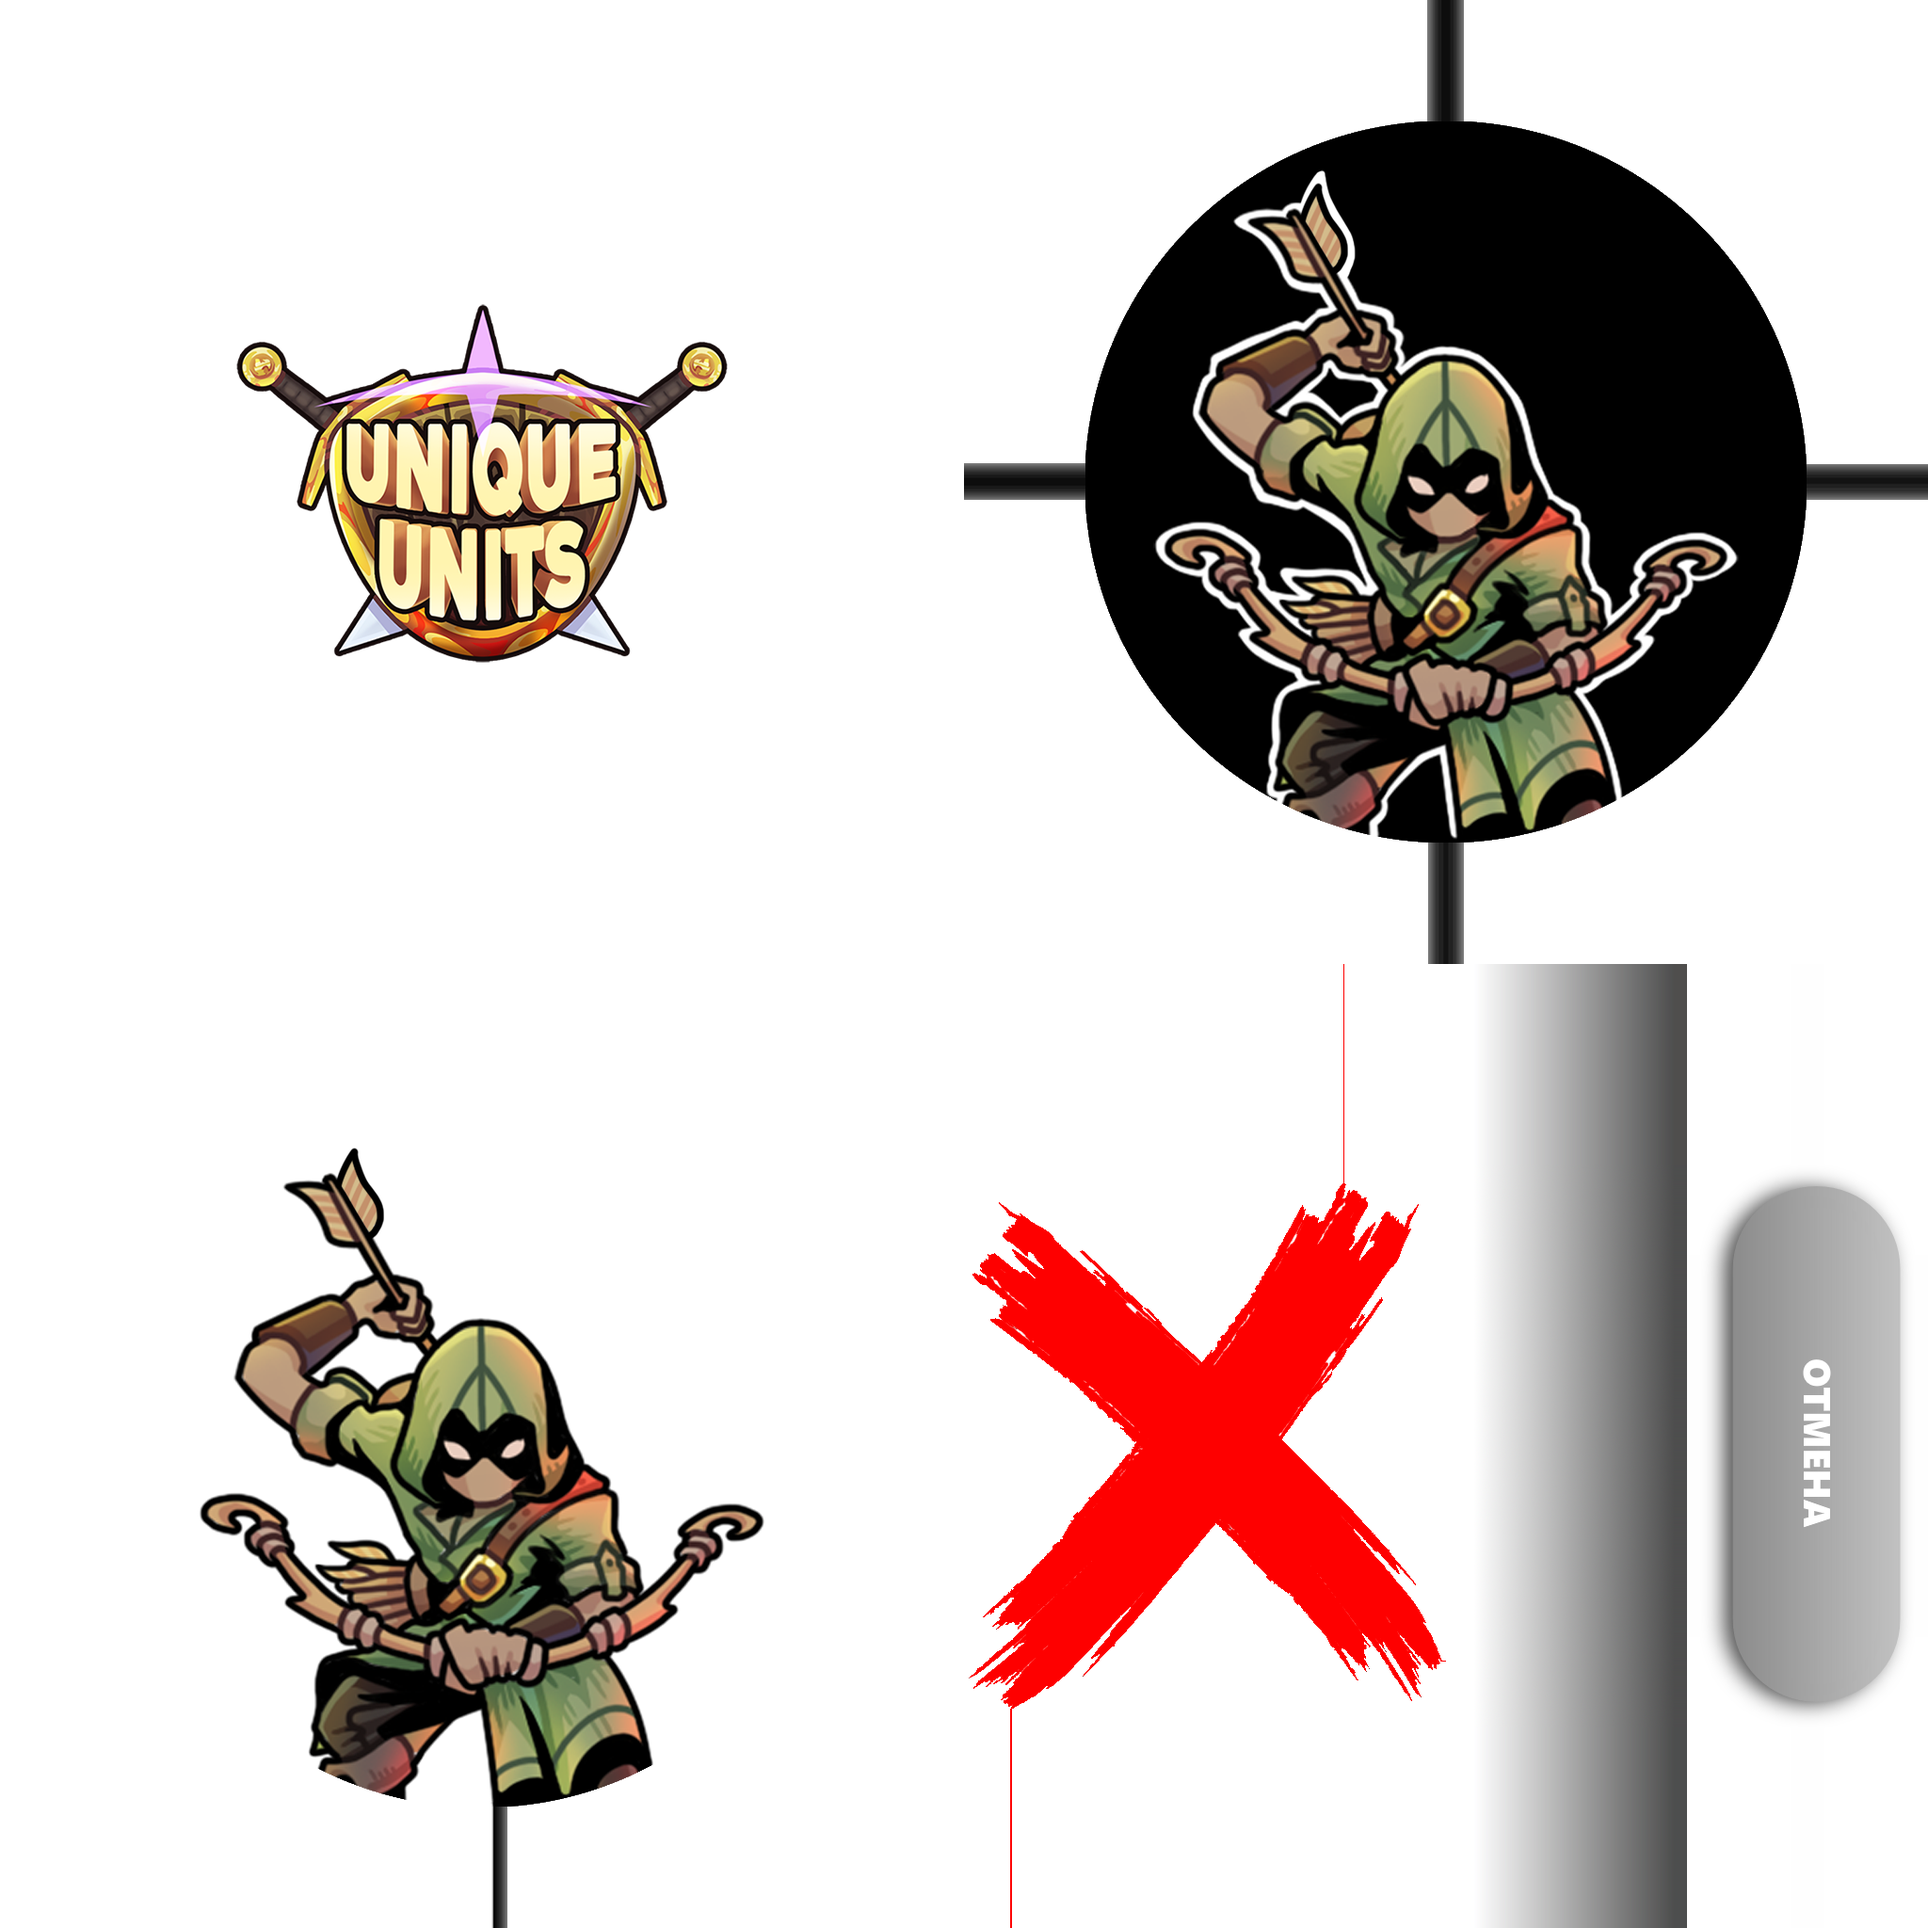
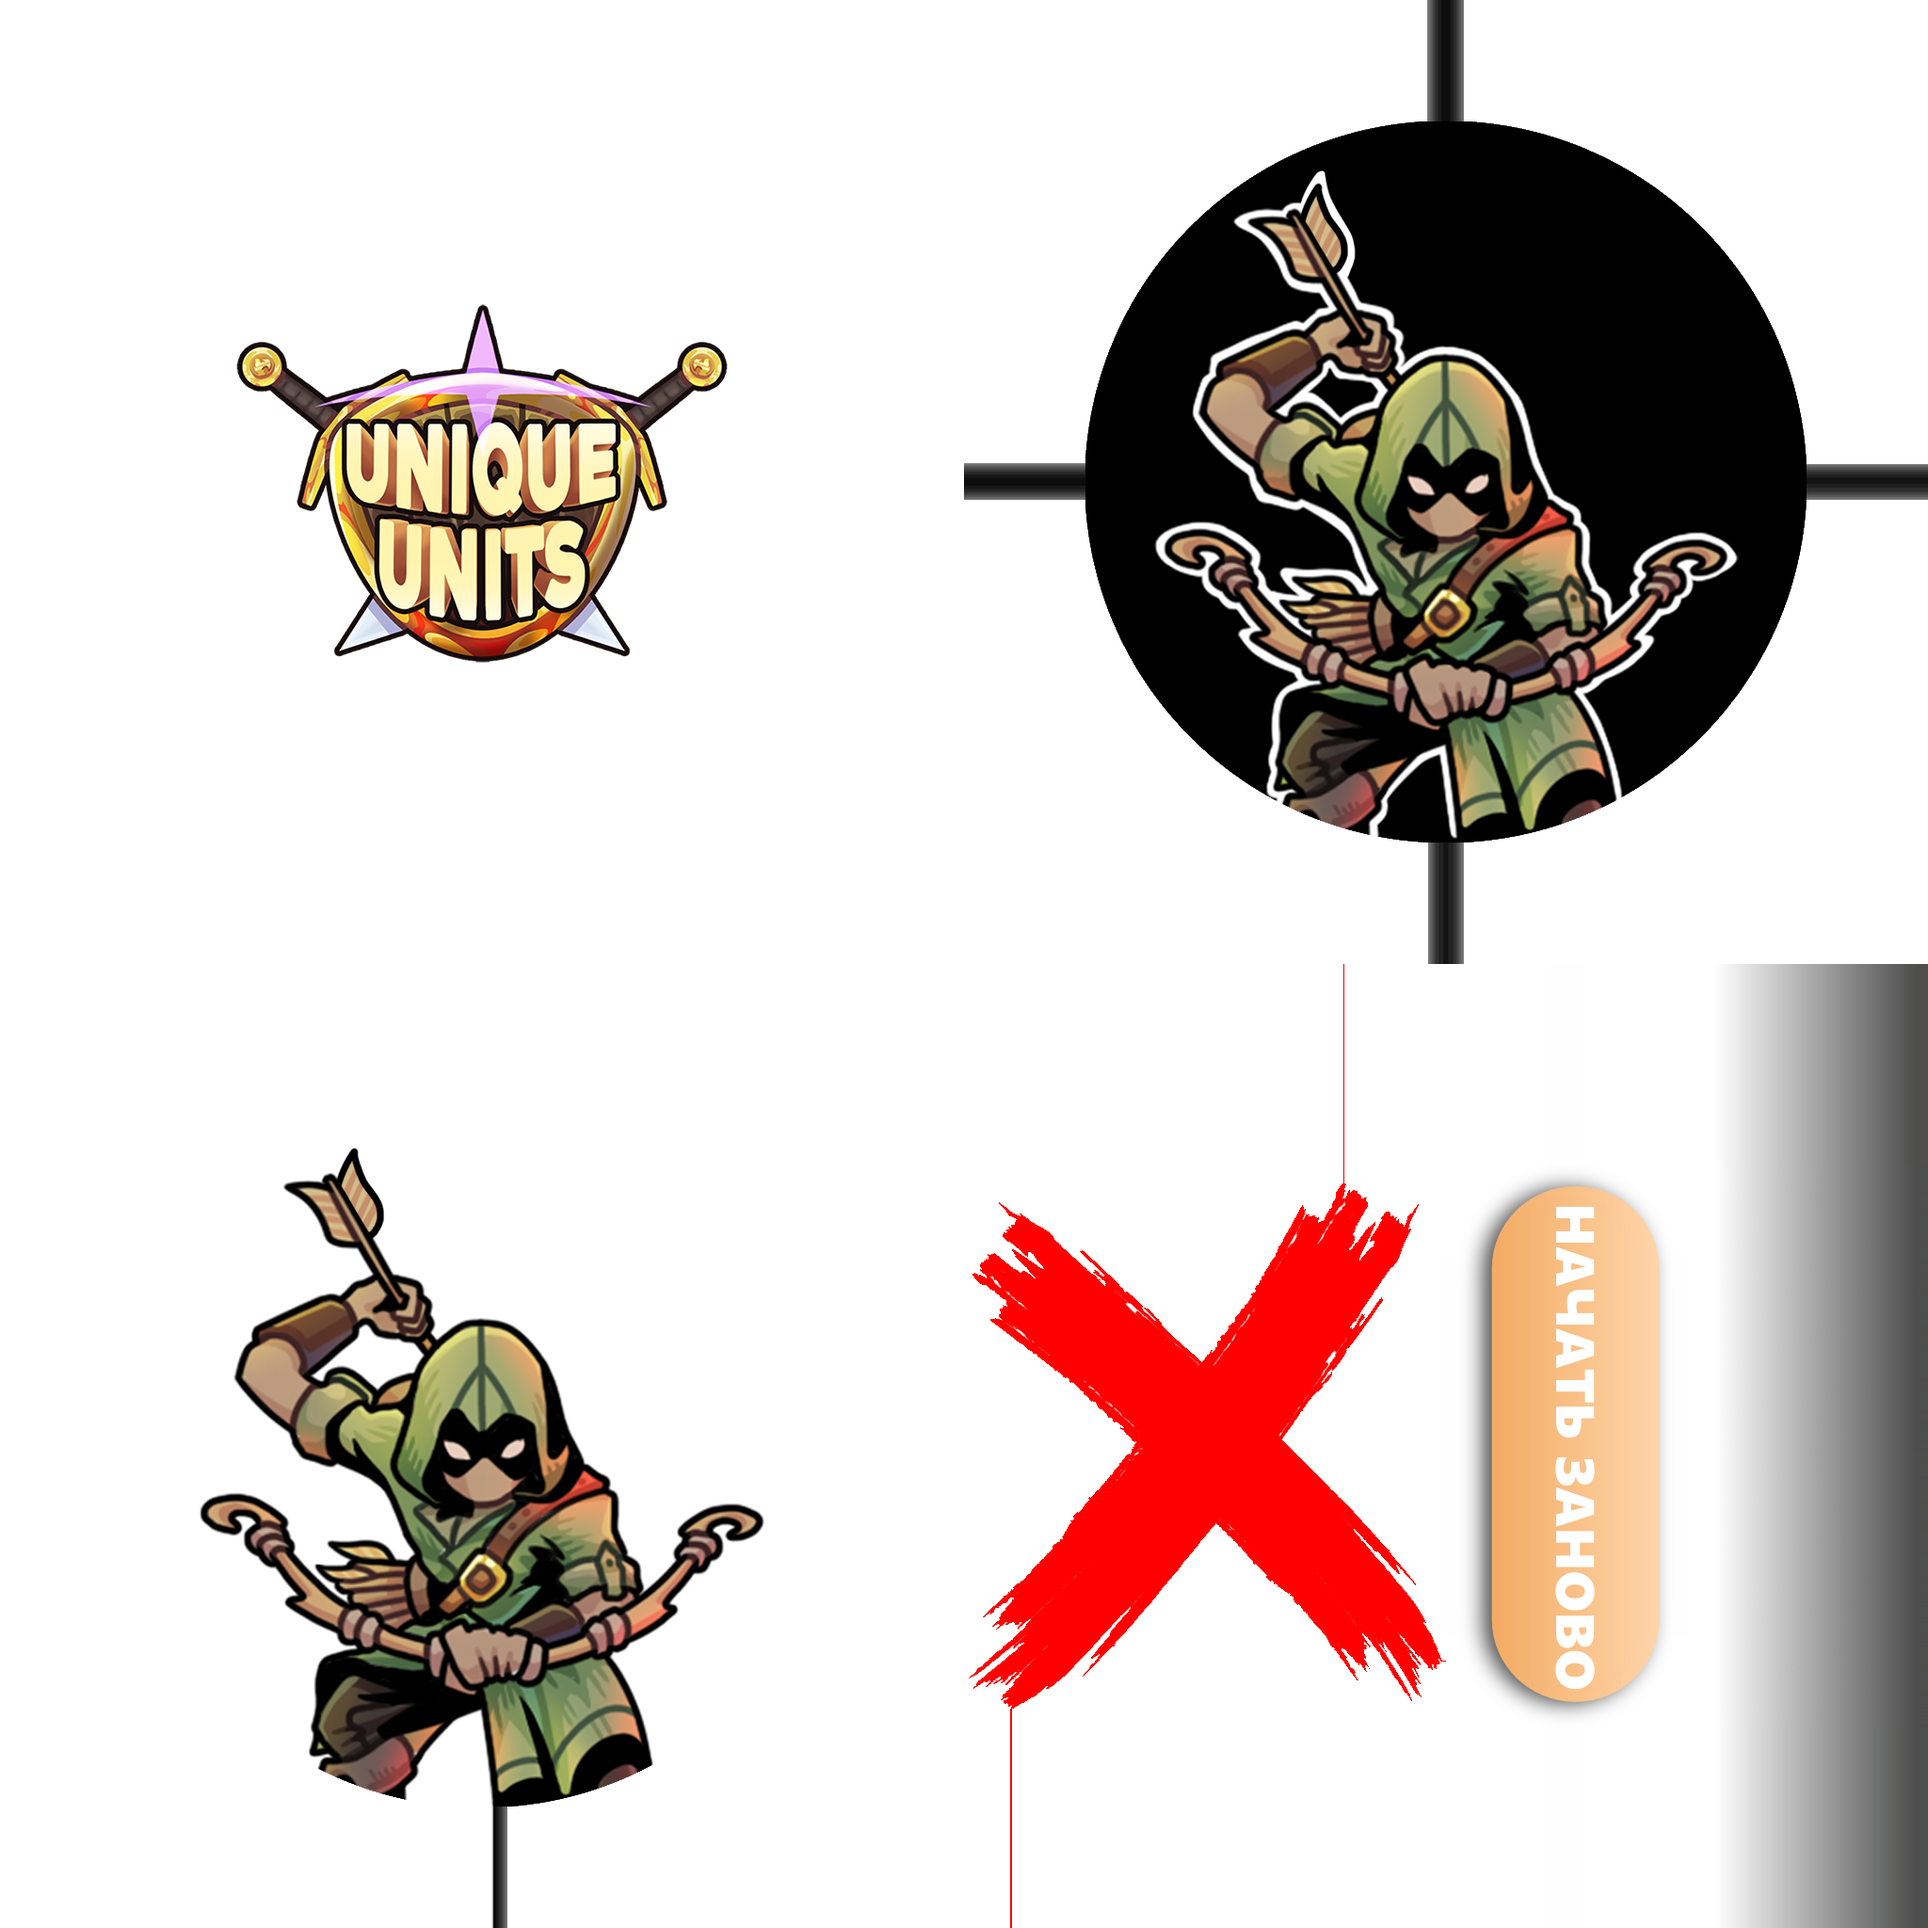
Add files via upload

Changed region(s): [[0.75, 0.5, 1.0, 1.0]]

diff --git a/scripts/c3runtime.js b/scripts/c3runtime.js
@@ -4482,14 +4482,16 @@ self.C3_GetObjectRefTable = function () {
 		C3.Plugins.System.Acts.WaitForPreviousActions,
 		C3.Plugins.Arr.Acts.JSONLoad,
 		C3.Plugins.AJAX.Exps.LastData,
+		C3.Plugins.Arr.Acts.Shuffle,
 		C3.Plugins.Touch.Cnds.OnTapGestureObject,
 		C3.Plugins.Sprite.Cnds.IsVisible,
 		C3.Plugins.Sprite.Cnds.CompareFrame,
 		C3.Plugins.System.Cnds.CompareBoolVar,
 		C3.Plugins.Sprite.Acts.SetVisible,
 		C3.Plugins.Sprite.Acts.SetAnimFrame,
-		C3.Plugins.System.Exps.choose,
+		C3.Plugins.Arr.Exps.At,
 		C3.Plugins.System.Acts.SubVar,
+		C3.Plugins.Arr.Acts.Pop,
 		C3.Plugins.Arr.Cnds.ArrForEach,
 		C3.Plugins.Arr.Cnds.CompareXY,
 		C3.Plugins.Arr.Exps.CurX,
@@ -4513,20 +4515,25 @@ self.C3_GetObjectRefTable = function () {
 		C3.Plugins.Sprite.Acts.SetPos,
 		C3.Plugins.System.Cnds.Else,
 		C3.Plugins.System.Cnds.TriggerOnce,
+		C3.Plugins.System.Acts.Wait,
 		C3.Plugins.Sprite.Cnds.CompareX,
 		C3.Plugins.Sprite.Cnds.CompareY,
+		C3.Plugins.System.Cnds.LayerVisible,
 		C3.Plugins.Sprite.Cnds.OnCollision,
 		C3.Plugins.Sprite.Exps.Width,
 		C3.Plugins.Sprite.Exps.Height,
 		C3.Plugins.Text.Acts.SetVisible,
 		C3.Plugins.Sprite.Acts.SetOpacity,
 		C3.Plugins.Touch.Cnds.OnTapGesture,
-		C3.Plugins.System.Acts.Wait,
 		C3.Plugins.System.Acts.SetBoolVar,
 		C3.Plugins.Arr.Acts.SetXY,
 		C3.Plugins.System.Cnds.Every,
 		C3.Plugins.Text.Acts.Destroy,
-		C3.Plugins.Arr.Exps.CurValue
+		C3.Plugins.Arr.Exps.CurValue,
+		C3.Plugins.Text.Acts.SetFontColor,
+		C3.Plugins.System.Acts.SetLayerVisible,
+		C3.Plugins.System.Acts.RestartLayout,
+		C3.Plugins.System.Acts.ResetGlobals
 	];
 };
 self.C3_JsPropNameTable = [
@@ -4573,6 +4580,11 @@ self.C3_JsPropNameTable = [
 	{o_sPlenPeer: 0},
 	{o_tCountMeshok: 0},
 	{o_tCountMeshokSecond: 0},
+	{o_ListFigurHost: 0},
+	{o_ListFigurPeer: 0},
+	{GameOver: 0},
+	{o_FakeBackgroundEndGame: 0},
+	{o_sButtonRestart: 0},
 	{ButtonWork: 0},
 	{FigurHost: 0},
 	{Map: 0},
@@ -4628,7 +4640,12 @@ self.InstanceType = {
 	s_zahvats_okrushen: class extends self.ISpriteInstance {},
 	o_sPlenPeer: class extends self.ISpriteInstance {},
 	o_tCountMeshok: class extends self.ITextInstance {},
-	o_tCountMeshokSecond: class extends self.ITextInstance {}
+	o_tCountMeshokSecond: class extends self.ITextInstance {},
+	o_ListFigurHost: class extends self.IArrayInstance {},
+	o_ListFigurPeer: class extends self.IArrayInstance {},
+	GameOver: class extends self.ISpriteInstance {},
+	o_FakeBackgroundEndGame: class extends self.ISpriteInstance {},
+	o_sButtonRestart: class extends self.ISpriteInstance {}
 }
 }
 
@@ -4736,10 +4753,13 @@ self.C3_ExpressionFuncs = [
 			return () => f0();
 		},
 		() => "ArrayPer",
+		() => "ListFigurHost",
+		() => "ListFigurPeer",
 		() => 0,
 		p => {
-			const f0 = p._GetNode(0).GetBoundMethod();
-			return () => f0(1, 2, 3, 4);
+			const n0 = p._GetNode(0);
+			const v1 = p._GetNode(1).GetVar();
+			return () => n0.ExpObject((v1.GetValue() - 1));
 		},
 		() => 1,
 		p => {
@@ -4817,6 +4837,7 @@ self.C3_ExpressionFuncs = [
 			const n0 = p._GetNode(0);
 			return () => (486 + (n0.ExpInstVar() * 124));
 		},
+		() => "EndGame",
 		p => {
 			const n0 = p._GetNode(0);
 			return () => (n0.ExpObject() + 70);
@@ -4878,7 +4899,29 @@ self.C3_ExpressionFuncs = [
 			return () => (1000 + ((v0.GetValue() - 6) * 56.8));
 		},
 		() => "Тест",
-		() => "Обновление Цифр в Массиве"
+		() => "Обновление Цифр в Массиве",
+		p => {
+			const n0 = p._GetNode(0);
+			return () => (95 + (n0.ExpObject() * 124));
+		},
+		p => {
+			const n0 = p._GetNode(0);
+			return () => (457 + (n0.ExpObject() * 124));
+		},
+		p => {
+			const n0 = p._GetNode(0);
+			return () => (487 + (n0.ExpObject() * 124));
+		},
+		() => -422238236443647,
+		() => "Лист Фигур отрисовка",
+		() => -50,
+		p => {
+			const n0 = p._GetNode(0);
+			return () => (530 + (n0.ExpObject() * 40));
+		},
+		() => -717706215031807,
+		() => 1130,
+		() => -43805311999
 ];
 
 
